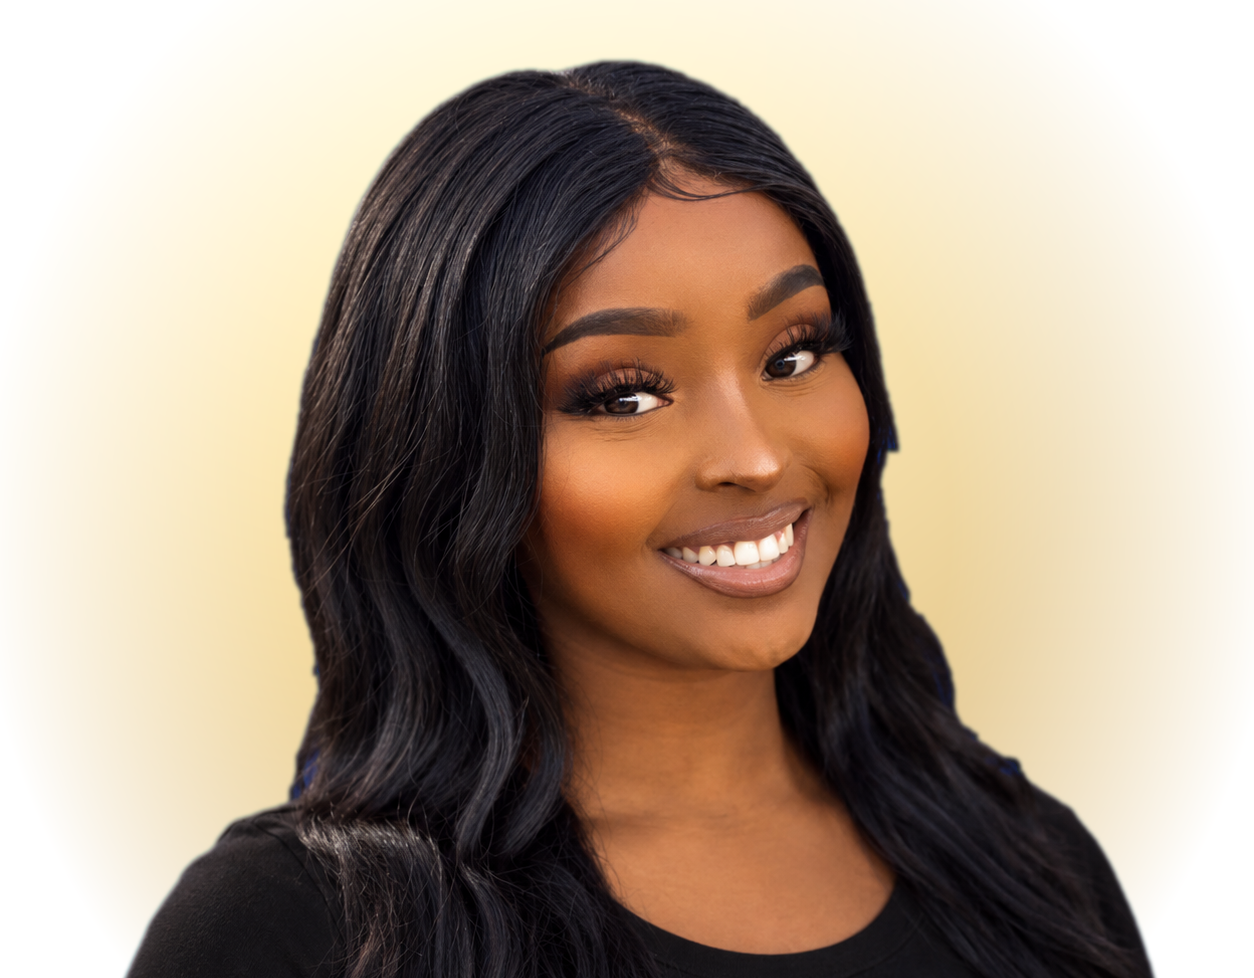
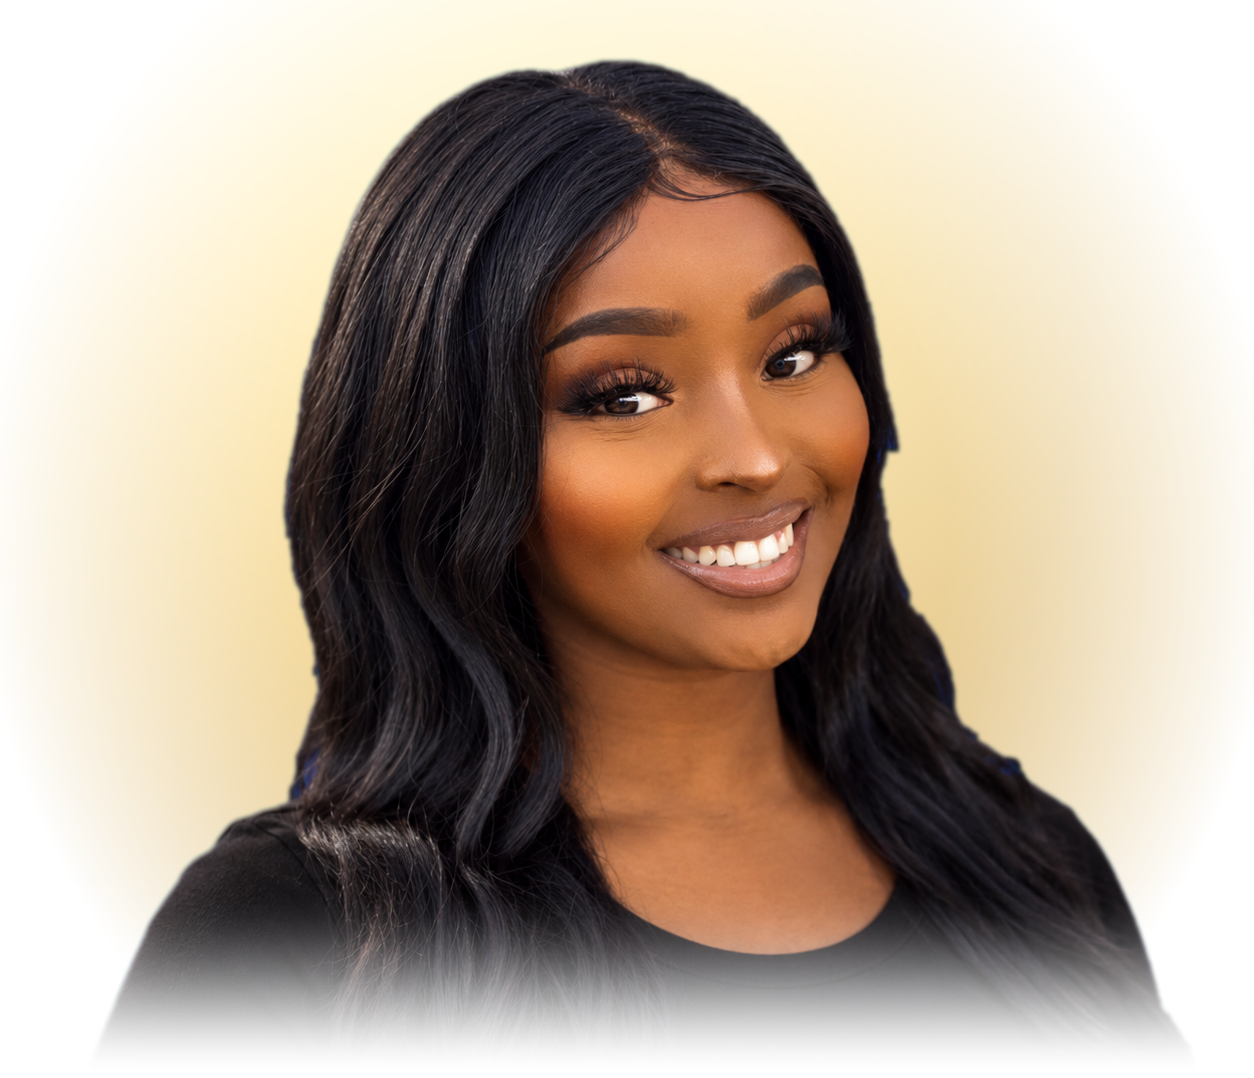
Portrait 86% with soft bottom fade; softer ring gold; transparent mail tab

diff --git a/src/index.css b/src/index.css
@@ -277,15 +277,18 @@
 
 /* ---- Side mail tab (matches the Get In Touch button) ---- */
 .mail-tab {
-  background: #fff2f8;
+  background: transparent;
   color: #7a5200;
-  box-shadow:
-    inset 0 0 0 1px rgba(184, 134, 11, 0.55),
-    0 8px 20px -8px rgba(95, 69, 15, 0.5);
+  border: 1px solid rgba(184, 134, 11, 0.6);
+  backdrop-filter: blur(6px);
+  -webkit-backdrop-filter: blur(6px);
+  box-shadow: 0 8px 20px -12px rgba(95, 69, 15, 0.45);
+  transition: background 0.3s ease, box-shadow 0.3s ease;
 }
 
 .mail-tab:hover {
-  background: #fff0d8;
+  background: rgba(255, 242, 248, 0.7);
+  box-shadow: 0 10px 24px -12px rgba(95, 69, 15, 0.55);
 }
 
 /* ---- Soft-blended portrait (fades gently into the background) ---- */
@@ -459,9 +462,9 @@
   display: inline-block;
   width: 100%;
   height: 100%;
-  background: linear-gradient(transparent 45%, #f2c94c 45% 55%, transparent 55%);
-  filter: drop-shadow(0 0 6px rgba(242, 201, 76, 0.85));
-  opacity: 1;
+  background: linear-gradient(transparent 45%, #e8c96a 45% 55%, transparent 55%);
+  filter: drop-shadow(0 0 6px rgba(242, 201, 76, 0.7));
+  opacity: 0.9;
 }
 
 @keyframes tilt-spin {
